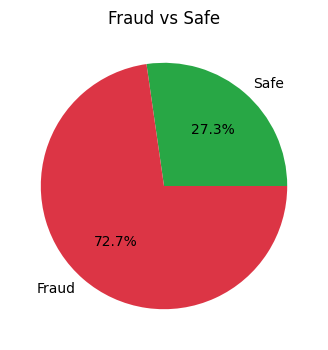
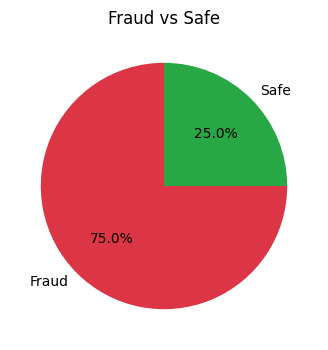
Prepare fraud detection app for deployment

diff --git a/templates/base.html b/templates/base.html
@@ -24,7 +24,7 @@
             <ul class="navbar-nav">
                 <li class="nav-item"><a class="nav-link" href="/">Home</a></li>
                 <li class="nav-item"><a class="nav-link" href="/admin">Admin Dashboard</a></li>
-                <li class="nav-item"><a class="nav-link" href="/detect">Detect Fraud</a></li>
+                <li class="nav-item"><a class="nav-link" href="/detect">Detect Transaction</a></li>
                 <li class="nav-item"> <a class="nav-link" href="/transactions">All Transactions</a></li>
                 <li class="nav-item"><a class="nav-link" href="/locations">Locations</a></li>
                 <li class="nav-item"><a class="nav-link" href="/alerts">Alerts</a></li>

diff --git a/templates/locations.html b/templates/locations.html
@@ -64,7 +64,7 @@ const locationsChart = new Chart(ctx, {
     data: {
         labels: {{ locations|tojson }},
         datasets: [{
-            label: 'Fraud Cases',
+            label: 'Fraud Chart',
             data: {{ counts|tojson }},
             backgroundColor: '#dc3545'
         }]
@@ -73,7 +73,7 @@ const locationsChart = new Chart(ctx, {
         responsive: true,
         plugins: {
             legend: { display: false },
-            title: { display: true, text: 'Fraud Cases by Location' }
+            title: { display: true, text: 'Fraud Bar Chart by Location' }
         },
         scales: {
             y: {

diff --git a/templates/reports.html b/templates/reports.html
@@ -61,9 +61,7 @@
         <a href="/download_report" class="btn btn-success">
             ⬇ Download Transaction Report (CSV)
         </a>
-        <a href="/download_report_pdf" class="btn btn-primary ms-2">
-        📄 Download Full Report (PDF)
-    </a>
+        
     </div>
 
         <!-- Back / Done Buttons -->
